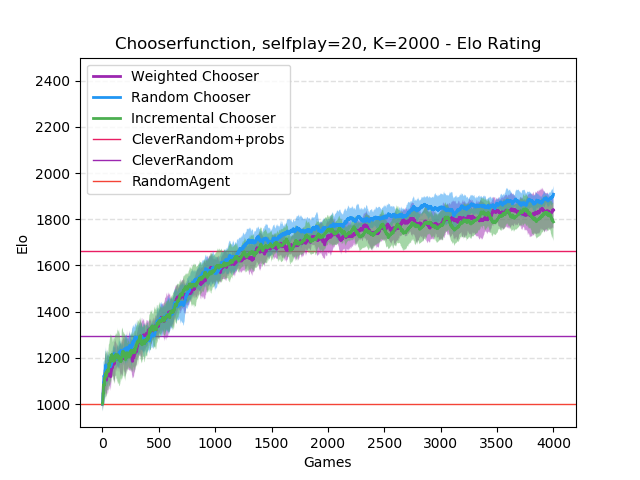
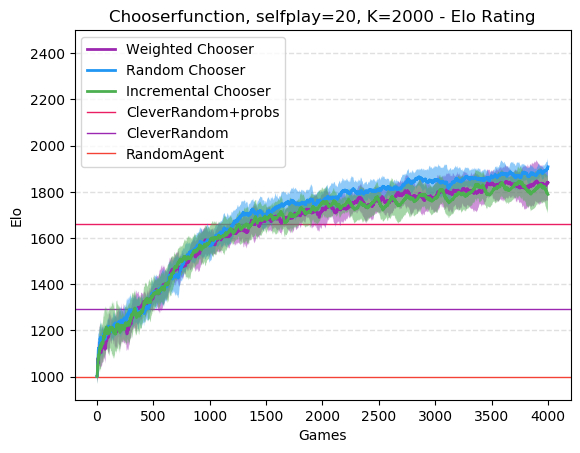
Fix

Changed region(s): [[0.0, 0.0, 0.9931, 0.989], [0.4345, 0.34, 0.4966, 0.3709], [0.9621, 0.0618, 0.9931, 0.0927]]

diff --git a/plotgenerators/plots.py b/plotgenerators/plots.py
@@ -62,7 +62,7 @@ class EloPlot():
             self.plt.axhline(y=2400, color='#E0E0E0', linestyle='dashed', lw=1, zorder=1)
             self.plt.legend(loc='upper left')
             for savepos in self.saves:
-                self.plt.savefig(savepos)
+                self.plt.savefig(savepos, bbox_inches='tight')
         self.plt.clf()
 
 
